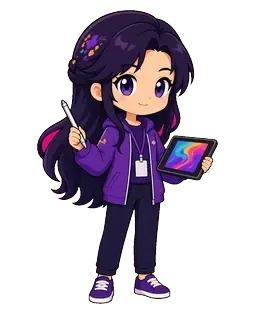
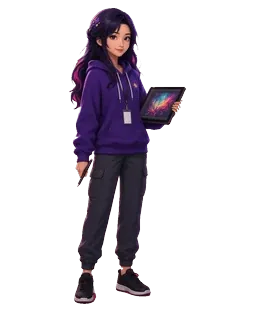
site: 2026-10-29 07:31 台北

diff --git a/app.js b/app.js
@@ -39,6 +39,8 @@ const BANDS={f9_top:[202,349],f8:[349,490],f7:[490,629],f6:[629,769],f5:[769,906
 const TOWER_H=1800;
 /* 座位：room2 floor_y/520；view back=背對螢幕 */
 const SPOT={weixiang:{f:"director",x:.30,y:.70,floor:.75},zhiya:{f:"dev",x:.52,y:.68,floor:.74},art:{f:"art",x:.34,y:.66,floor:.73},num:{f:"num",x:.44,y:.70,floor:.75},qa:{f:"qa",x:.58,y:.68,floor:.74},eng:{f:"eng",x:.48,y:.74,floor:.81}};
+/* 半寫實正常比例：以房間高度比例對家具；eng 機櫃區略小、總裁室略大 */
+const ROOM_SCALE={director:.50,council:.48,trade:.48,lobby:.48,dev:.48,art:.47,num:.47,qa:.47,eng:.44};
 const SEAT={weixiang:.29,zhiya:.37,art:.45,num:.53,qa:.61,eng:.69}; const TABLE_TOP=.62;
 const NAMES={weixiang:"偉翔",zhiya:"智雅",art:"青鋒美術",num:"青鋒數值",qa:"青鋒監管",eng:"青鋒工程",council:"全員會議"};
 const SHORT={weixiang:"偉翔",zhiya:"智雅",art:"美術",num:"數值",qa:"監管",eng:"工程"};
@@ -206,10 +208,11 @@ function placeChar(c,now){
       c.x=x;c.y=sp.floor;c.pose=(e<c.stroll.dur||e>c.stroll.dur+2500)?"walk":"stand";c.view="front";return;}}
   c.x=sp.x;c.y=s.cat==="you"?sp.floor:sp.y;c.pose=s.cat==="you"?"stand":"sit";c.view=s.cat==="you"?"front":"back";
 }
-// ---- Q版立繪（美術交件 assets/chars/<id>_<idle|walk|wave>.webp，128×160，腳底 y=152） ----
+// ---- 半寫實立繪（assets/chars/<id>_<idle|walk|wave>.webp，128×160，腳底 y=152）＋棚拍頭像 ----
 const SPR={};
 function sprite(id,pose){const k=id+"_"+pose;let im=SPR[k];if(!im){im=new Image();im.decoding="async";im.src="assets/chars/"+k+".webp";SPR[k]=im;}return im;}
 function preloadSprites(){for(const id of Object.keys(SPOT))for(const p of ["idle","walk","wave"])sprite(id,p);}
+function avatarURL(id,lg){return lg?`assets/avatars/avatar_${id}_lg.webp`:`assets/avatars/avatar_${id}.webp`;}
 function spritePose(c,now){
   if(c.wave>now)return"wave";
   if(c.pose==="walk")return Math.floor(now/220)%2?"walk":"idle";
@@ -234,7 +237,7 @@ function loop(now){
       ctx.save();if(c.clip){ctx.beginPath();ctx.rect(0,0,cv.width,c.clip*cv.height);ctx.clip();}
       if(c.x<1.02&&c.x>-.02){ctx.fillStyle="rgba(0,0,0,.35)";if(!c.clip){ctx.beginPath();ctx.ellipse(x,y+u*.3,5*u,1.4*u,0,0,7);ctx.fill();}
         const im=sprite(c.id,spritePose(c,now));
-        if(im.complete&&im.naturalWidth){const dh=(c.pose==="sit"?20:24)*u,dw=dh*.8,top=y+b-dh*.95;
+        if(im.complete&&im.naturalWidth){const sc=ROOM_SCALE[k]||.48,dh=(c.pose==="sit"?sc*.82:sc)*cv.height,dw=dh*.8,top=y+b-dh*.95;
           ctx.imageSmoothingEnabled=true;ctx.imageSmoothingQuality="high";
           if(c.dir===-1&&c.pose==="walk"){ctx.translate(x,0);ctx.scale(-1,1);ctx.drawImage(im,-dw/2,top,dw,dh);}
           else ctx.drawImage(im,x-dw/2,top,dw,dh);}}
@@ -574,7 +577,7 @@ function decisionBoardHTML(){
   return `<div class="dboard">${dec.map(d=>{
     const ids=driIds(d.dri); const st=dueStatus(d.due);
     const av=ids.length
-      ?`<div class="davs">${ids.map(id=>`<img class="dav" src="assets/chars/${id}_idle.webp" alt="">`).join("")}</div>`
+      ?`<div class="davs">${ids.map(id=>`<img class="dav" src="${avatarURL(id)}" alt="" width="36" height="36">`).join("")}</div>`
       :`<div class="davs"><div class="dav"></div></div>`;
     return `<div class="dcard">${av}<div class="dmeta"><div class="ditem">${esc(d.item)}</div><div class="ddri">${esc(d.tag)} · ${esc(d.dri||"未指派")}</div></div><div class="dright"><span class="slite ${st.lite}"></span><span class="ddue ${st.cls}">${esc(st.text)}</span></div></div>`;
   }).join("")}</div>`;
@@ -690,7 +693,7 @@ function openSheet(html){$("#sheetbody").innerHTML=html;$("#sheet").hidden=false
 function closeSheet(){$("#sheet").hidden=true;$("#sheetbg").hidden=true;}
 $("#close").onclick=closeSheet;$("#sheetbg").onclick=closeSheet;document.addEventListener("keydown",e=>{if(e.key==="Escape")closeSheet();});
 function sevHTML(c){const L=[["🔴","s1","致命"],["🟠","s2","重要"],["🟡","s3","次要"]];return L.map(([k,cl,n])=>`<span class="sev ${cl}"><i></i>${n} ${typeof c[k]==="object"?c[k].new+" 新 / "+c[k].old+" 舊":c[k]}</span>`).join("");}
-function memberBtn(id){return `<div class="mbtn"><button data-m="${id}">看 ${esc(NAMES[id])} 在想什麼</button></div>`;}
+function memberBtn(id){return `<div class="mbtn"><button data-m="${id}" class="mbtn-ava"><img class="mava" src="${avatarURL(id)}" alt="" width="28" height="28">看 ${esc(NAMES[id])} 在想什麼</button></div>`;}
 function head(f,extra){const s=floorState(f);return `<h3>${iconSVG(f.id)}<span class="no">${f.no}</span> ${f.name}</h3><div class="muted"><span class="dot ${s.cat}"></span> ${esc(s.label)} · ${esc(noemo(s.text))}${extra||""}</div>`;}
 function openFloor(id){const f=FLOORS.find(x=>x.id===id);let h=head(f);
   if(id==="director"){const d=D.director;h+=`<h4>等你決定／開通（${d.needYou.length}）</h4><ul>${d.needYou.map(x=>`<li><b>${esc(x.track)}</b>：${esc(x.what)}</li>`).join("")}</ul>
@@ -734,13 +737,12 @@ function openFloor(id){const f=FLOORS.find(x=>x.id===id);let h=head(f);
     <h4>待辦進度</h4>${progressHTML()}<h4>今日排程</h4>${timelineHTML()}<h4>上架路線圖</h4>${roadmapHTML()}`;}
   openSheet(h);document.querySelectorAll("#sheetbody [data-m]").forEach(b=>b.onclick=()=>openMember(b.dataset.m));bindUsageDetails($("#sheetbody"));}
 function openMember(id){const s=memberState(id),c=D.cards[id]||{},m=(D.office&&D.office.members[id])||{role:ROLES[id]};
-  openSheet(`<div class="who"><img id="ava" class="ava" width="96" height="120" alt="${esc(NAMES[id])} Q版立繪" src="assets/chars/${id}_idle_lg.webp" onerror="this.onerror=null;this.src='assets/chars/'+this.dataset.id+'_idle.webp'" data-id="${id}"><div><div class="nm">${esc(NAMES[id])}</div><div class="rl">${esc(m.role||"")}</div><div class="stl"><span class="dot ${s.cat}"></span>${CAT[s.cat]} · <span class="muted">${s.live?esc(agoText(s.updatedAt)):"依每日排程"}</span></div></div></div>
+  openSheet(`<div class="who"><img id="ava" class="ava" width="96" height="96" alt="${esc(NAMES[id])}" src="${avatarURL(id,true)}" data-id="${id}"><div><div class="nm">${esc(NAMES[id])}</div><div class="rl">${esc(m.role||"")}</div><div class="stl"><span class="dot ${s.cat}"></span>${CAT[s.cat]} · <span class="muted">${s.live?esc(agoText(s.updatedAt)):"依每日排程"}</span></div></div></div>
   <div class="thought">${esc(thoughtOf(id))}</div>
   <div class="rows"><div class="r"><b>正在忙</b>${esc(noemo(s.full||s.text))}</div><div class="r"><b>剛完成</b>${esc(noemo(c.recent)||"—")}</div><div class="r"><b>下一步</b>${esc(noemo(nextStep(id)))}</div></div>
   <div class="mbtn"><button id="poke">打招呼</button><button id="tofloor">看這層樓</button></div>`);
   const ava=$("#ava");
-  $("#poke").onclick=()=>{ava.src="assets/chars/"+id+"_wave_lg.webp";ava.classList.remove("hop");void ava.offsetWidth;ava.classList.add("hop");
-    clearTimeout(ava._t);ava._t=setTimeout(()=>{if(document.body.contains(ava))ava.src="assets/chars/"+id+"_idle_lg.webp";},1400);react(id);};
+  $("#poke").onclick=()=>{ava.classList.remove("hop");void ava.offsetWidth;ava.classList.add("hop");react(id);};
   $("#tofloor").onclick=()=>{setView("room",SPOT[id].f);openFloor(SPOT[id].f);};}
 
 // ---- 資料 ----

diff --git a/app.css b/app.css
@@ -93,7 +93,7 @@ h1{margin:0;font-size:20px;letter-spacing:1px;font-weight:750;color:var(--text)}
 @keyframes pulse{0%,100%{box-shadow:0 0 0 0 currentColor}50%{box-shadow:0 0 0 5px transparent}}
 .dot.work{color:#43d18f88}.dot.meet{color:#5ab0ff88}.dot.you{color:#ffb54788}
 .hits{position:absolute;inset:0;z-index:4;pointer-events:none}
-.hit{position:absolute;width:56px;height:64px;margin:-60px 0 0 -28px;border:0;background:transparent;pointer-events:auto;cursor:pointer;border-radius:12px;-webkit-tap-highlight-color:transparent}
+.hit{position:absolute;width:64px;height:88px;margin:-84px 0 0 -32px;border:0;background:transparent;pointer-events:auto;cursor:pointer;border-radius:12px;-webkit-tap-highlight-color:transparent}
 .hit:focus-visible{outline:2px solid var(--jade)}
 .hit .tag{position:absolute;left:50%;bottom:-14px;transform:translateX(-50%);font-size:10px;white-space:nowrap;background:#000b;color:var(--jade);padding:0 5px;border-radius:6px;pointer-events:none;border:1px solid #3fd8a044}
 .think{position:absolute;z-index:5;transform:translate(-50%,-100%);background:#15221c;color:#e8fff4;font-size:12px;line-height:1.35;padding:6px 9px;border-radius:14px;max-width:min(220px,60%);box-shadow:0 4px 12px #0009,0 0 0 1px #3fd8a044;pointer-events:none;animation:pop .35s ease-out}
@@ -125,7 +125,7 @@ h1{margin:0;font-size:20px;letter-spacing:1px;font-weight:750;color:var(--text)}
 .dcard .davs{display:flex;align-items:center}
 .dcard .davs .dav{margin-left:-8px}
 .dcard .davs .dav:first-child{margin-left:0}
-.dcard .dav{width:36px;height:36px;border-radius:10px;object-fit:contain;object-position:50% 100%;background:radial-gradient(circle at 50% 70%,#1a2a38,#0a1018 75%);border:1px solid var(--line);flex:none}
+.dcard .dav{width:36px;height:36px;border-radius:50%;object-fit:cover;object-position:50% 20%;background:#121820;border:1.5px solid var(--jade);flex:none;box-shadow:0 0 0 1px #0008}
 .dcard .dmeta{min-width:0}
 .dcard .ditem{font-weight:700;font-size:13px;color:var(--text);white-space:nowrap;overflow:hidden;text-overflow:ellipsis}
 .dcard .ddri{font-size:11.5px;color:var(--mute);margin-top:2px}
@@ -176,14 +176,15 @@ table{width:100%;border-collapse:collapse;font-size:12.5px}th,td{text-align:left
 .sev{display:inline-flex;align-items:center;gap:4px;font-size:12px;margin-right:10px}.sev i{width:10px;height:10px;border-radius:50%;display:inline-block}.s1 i{background:var(--red)}.s2 i{background:var(--org)}.s3 i{background:var(--yel)}
 .big{display:flex;gap:10px;flex-wrap:wrap}.big div{flex:1;min-width:90px;background:#0b121a;border:1px solid var(--line);border-radius:10px;padding:8px;text-align:center}.big b{display:block;font-size:22px;color:var(--jade)}.big span{font-size:11.5px;color:var(--mute)}
 .thumbs{display:grid;grid-template-columns:repeat(auto-fill,minmax(140px,1fr));gap:8px}.thumbs figure{margin:0}.thumbs img{width:100%;border-radius:8px;display:block;background:#000}.thumbs figcaption{font-size:11.5px;color:var(--mute);text-align:center}
-.who{display:flex;gap:12px;align-items:center}.who .ava{width:96px;height:120px;object-fit:contain;object-position:50% 100%;background:radial-gradient(circle at 50% 65%,#1a2a38,#0a1018 72%);border-radius:14px;border:1px solid var(--line);flex:none}
+.who{display:flex;gap:12px;align-items:center}.who .ava{width:96px;height:96px;object-fit:cover;object-position:50% 20%;background:#121820;border-radius:50%;border:2px solid var(--jade);flex:none;box-shadow:0 0 0 1px #0008,0 4px 16px #0006}
 .who .ava.hop{animation:hop .7s ease-out}
 @keyframes hop{0%,100%{transform:translateY(0)}30%{transform:translateY(-10px)}60%{transform:translateY(0)}80%{transform:translateY(-4px)}}
 @media (prefers-reduced-motion:reduce){.who .ava.hop{animation:none}}
 .who .nm{font-size:19px;font-weight:800;color:var(--text)}.who .rl{font-size:12.5px;color:var(--mute)}.who .stl{display:flex;align-items:center;gap:6px;margin-top:4px;font-size:13px}
 .rows{display:grid;gap:8px;margin-top:12px}.rows .r{background:#0b121a;border:1px solid var(--line);border-radius:10px;padding:8px 10px}.rows .r b{display:block;font-size:11.5px;color:var(--jade);margin-bottom:2px}
 .thought{position:relative;margin-top:14px;background:#eef6f2;color:#122a20;border-radius:16px;padding:10px 14px;font-size:14px}.thought::before{content:"想法";position:absolute;top:-9px;left:12px;font-size:10.5px;background:var(--jade);color:#04140e;border-radius:6px;padding:0 6px;font-weight:700}
-.mbtn{margin-top:10px;display:flex;gap:8px;flex-wrap:wrap}.mbtn button{min-height:40px;border-radius:10px;border:1px solid var(--line2);background:#1a2433;color:var(--text);padding:6px 12px;font-size:13px;cursor:pointer}
+.mbtn{margin-top:10px;display:flex;gap:8px;flex-wrap:wrap}.mbtn button{min-height:40px;border-radius:10px;border:1px solid var(--line2);background:#1a2433;color:var(--text);padding:6px 12px;font-size:13px;cursor:pointer;display:inline-flex;align-items:center;gap:8px}
+.mbtn .mava{width:28px;height:28px;border-radius:50%;object-fit:cover;object-position:50% 20%;border:1.5px solid var(--jade);flex:none}
 .foot{text-align:center;color:var(--mute);font-size:11.5px;padding:10px 10px 30px}
 @media(max-width:420px){.plate img{width:22px;height:22px}.plate .nm{font-size:12px}.bubble{font-size:11px;max-width:52%}h1{font-size:17px}.tower-hit{left:46%;width:18%}}
 @media(prefers-reduced-motion:reduce){.dot{animation:none!important}}
